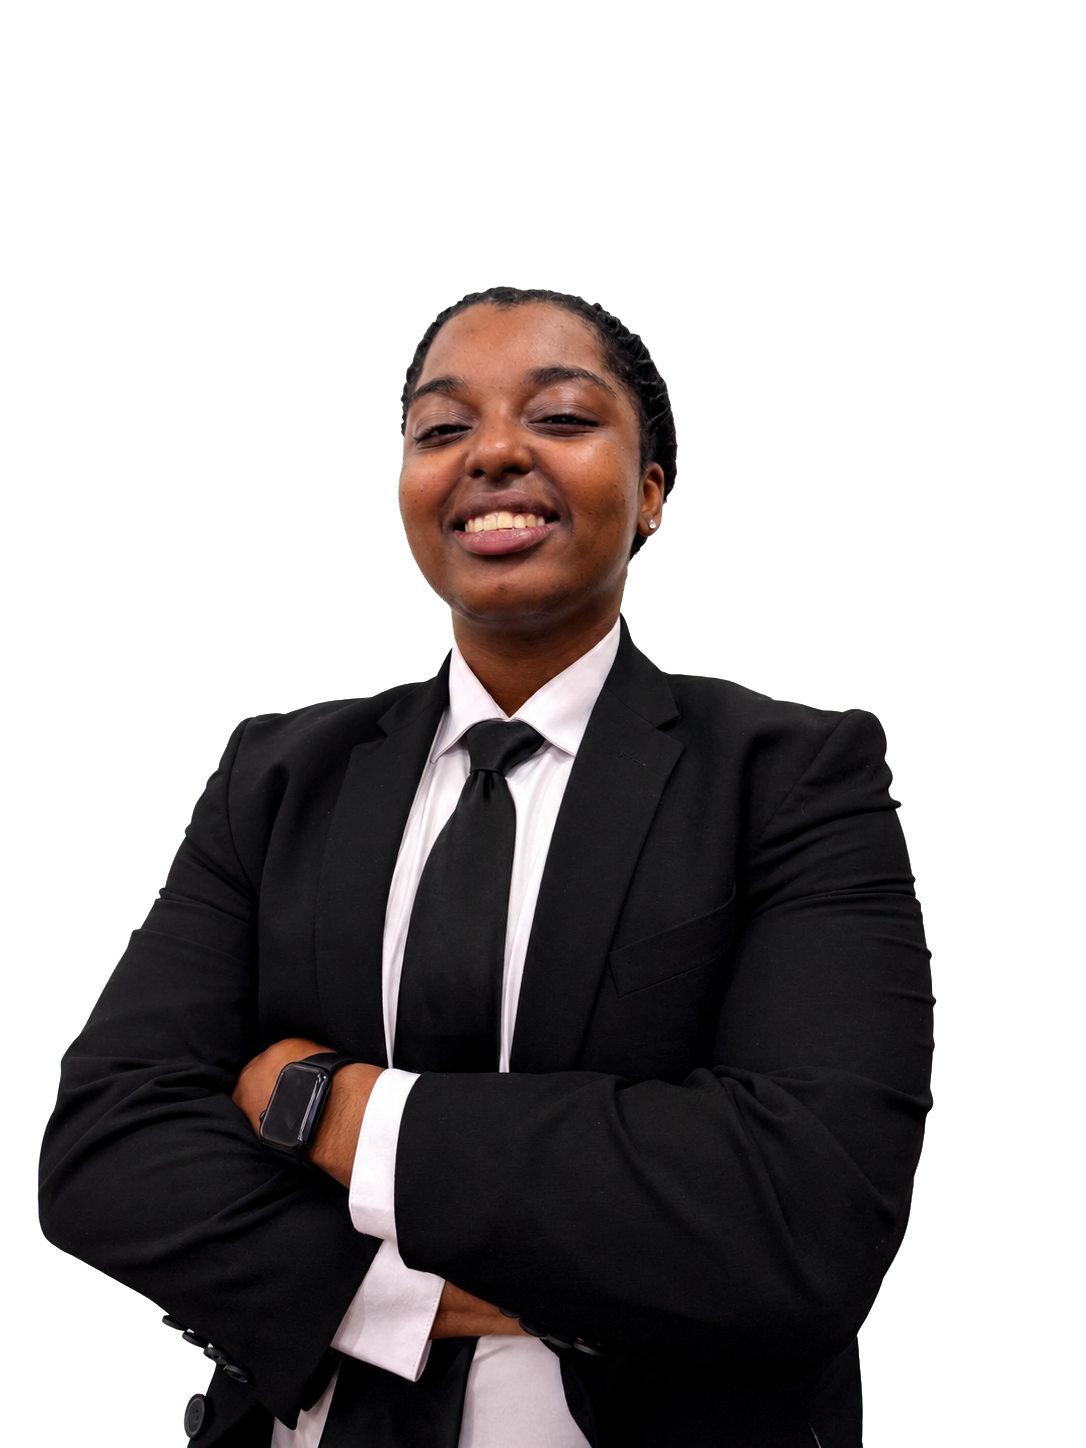
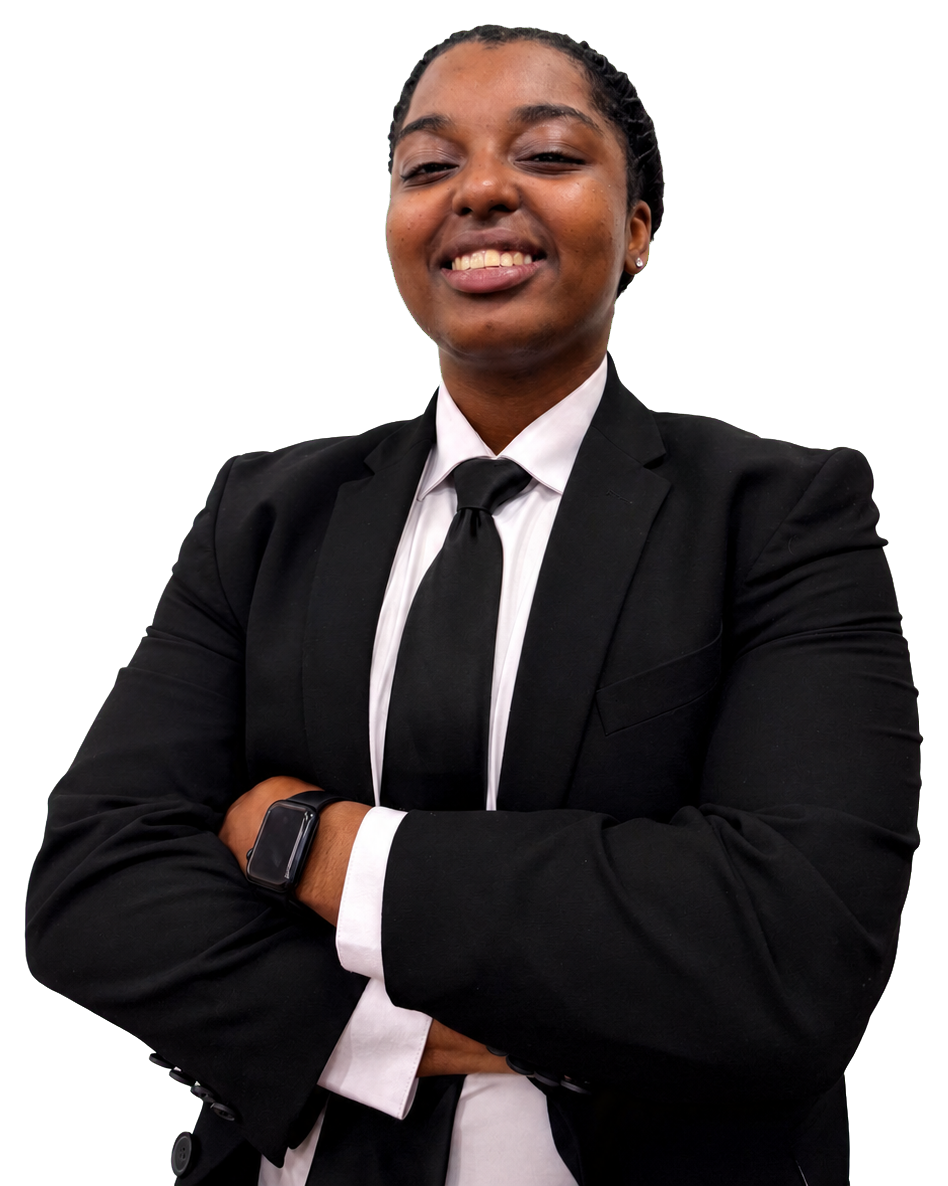
Enlarge borderless profile photo

diff --git a/index.html b/index.html
@@ -98,10 +98,9 @@ h1, h2, h3 { font-family: var(--font-display); font-weight: 600; }
   @media (max-width: 720px) { .hero { grid-template-columns: 1fr; } }
 
   .headshot-slot {
-    justify-self: start; width: 180px; height: 220px; border-radius: 14px;
-    overflow: hidden; border: 1px solid var(--line); transform: translateY(10px);
+    justify-self: start; width: min(280px, 80vw);
   }
-  .headshot-slot img { width: 100%; height: 100%; object-fit: cover; object-position: top center; display: block; }
+  .headshot-slot img { width: 100%; height: auto; display: block; }
 
   h1.name { font-size: clamp(34px, 6vw, 54px); line-height: 1.05; margin-bottom: 10px; }
   .tagline { color: var(--ink-dim); font-size: 15.5px; max-width: 46ch; line-height: 1.55; }
